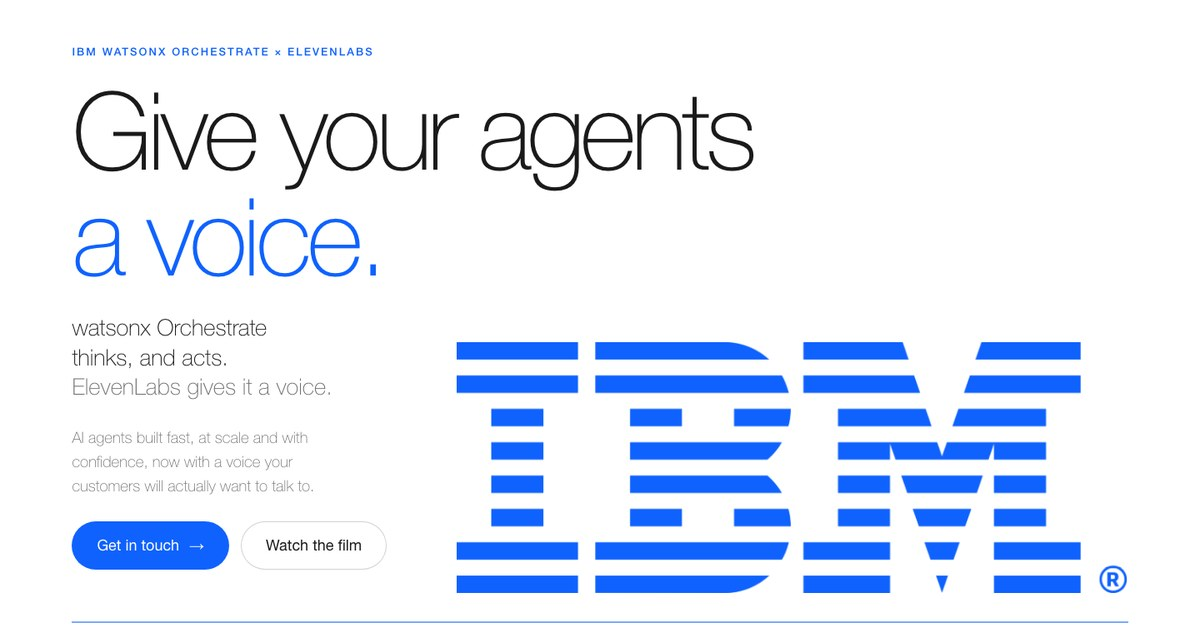
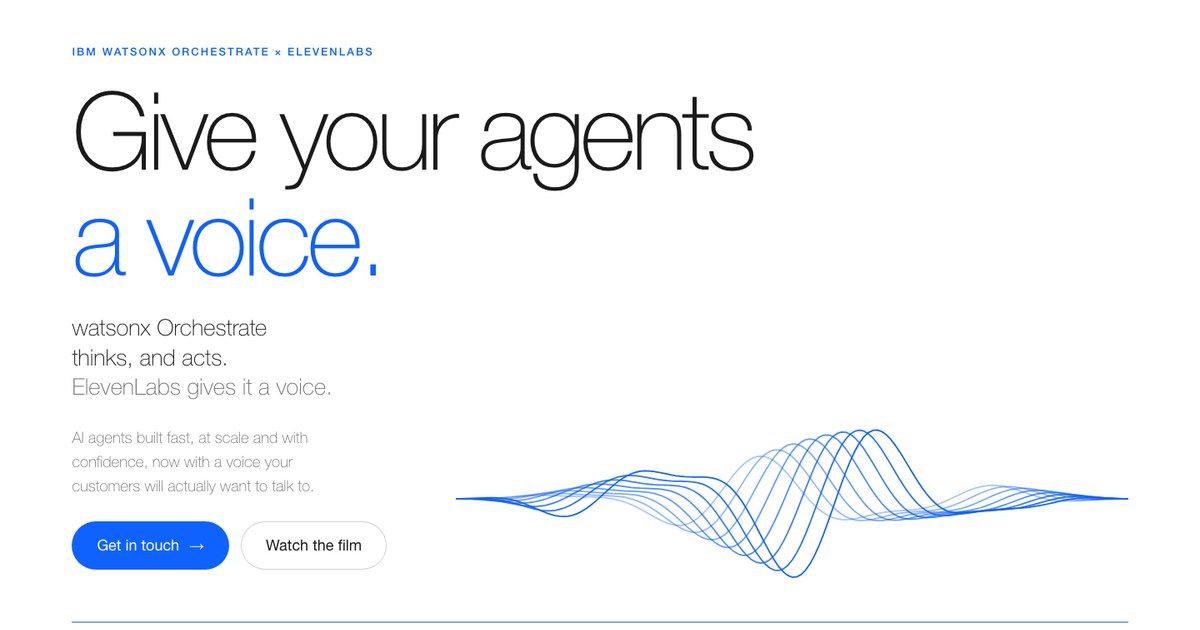
Hero: the voice alone, speaking in a loop

Changed region(s): [[0.37, 0.5429, 0.9558, 0.9651]]

diff --git a/index.html b/index.html
@@ -72,16 +72,11 @@ section{position:relative}
 .drawing .f{fill:rgba(15,98,254,0);transition:fill 1.2s ease calc(var(--base,0ms) + 3000ms),stroke-dashoffset var(--t) var(--ease2) calc(var(--d) + var(--base,0ms))}
 .drawing.in .f{fill:rgba(15,98,254,.06)}
 .drawing .white{fill:#fff}
-/* the voicemark: a voice wave that settles into the IBM stripes */
-.voicemark{position:relative;width:100%;aspect-ratio:1000/374;margin-bottom:34px}
-.vm-wave{position:absolute;inset:0;width:100%;height:100%;overflow:visible;clip-path:inset(-60% -2% -60% calc(var(--carve,0)*100%))}
-.vm-wave path{fill:none;stroke:var(--blue);stroke-linecap:butt;stroke-linejoin:round;stroke-dasharray:1 1;stroke-dashoffset:1;transition:stroke-dashoffset 1.3s var(--ease2) .55s}
+/* the voice: eight layered lines that speak in a loop */
+.voicemark{position:relative;width:100%;aspect-ratio:1000/340;margin-bottom:10px}
+.vm-wave{position:absolute;inset:0;width:100%;height:100%;overflow:visible}
+.vm-wave path{fill:none;stroke:var(--blue);stroke-width:2.2;stroke-linecap:round;stroke-linejoin:round;stroke-dasharray:1 1;stroke-dashoffset:1;transition:stroke-dashoffset 1.3s var(--ease2) .55s}
 .voicemark.in .vm-wave path{stroke-dashoffset:0}
-.vm-logo{position:absolute;inset:0;clip-path:inset(-10% calc((1 - var(--carve,0))*100%) -10% 0)}
-.vm-band{position:absolute;inset:0;background:var(--blue);-webkit-mask:url(assets/ibm.png) 0 0/100% 100% no-repeat;mask:url(assets/ibm.png) 0 0/100% 100% no-repeat}
-.voicemark.formed .vm-wave{visibility:hidden}
-.voicemark.formed .vm-band{animation:stripe-pass 7s var(--ease2) 1.2s infinite;animation-delay:calc(1.2s + var(--k)*70ms)}
-@keyframes stripe-pass{0%,72%,100%{transform:translateX(0)}82%{transform:translateX(2.2%)}}
 .ground{height:2px;background:rgba(15,98,254,.55);transform-origin:left;transform:scaleX(0);transition:transform 1.4s var(--ease2) .35s}
 .ground.in{transform:none}
 .hero .foot{display:flex;justify-content:space-between;align-items:center;padding:22px 0 30px;font-size:15px;color:var(--mute);font-weight:400}
@@ -287,9 +282,8 @@ footer .partners img{height:14px}
       </div>
     </div>
     <div class="art">
-      <div class="voicemark" id="voicemark" role="img" aria-label="A voice waveform that settles into the IBM logo">
-        <svg class="vm-wave" viewBox="0 0 1000 374" aria-hidden="true"><path pathLength="1"/><path pathLength="1"/><path pathLength="1"/><path pathLength="1"/><path pathLength="1"/><path pathLength="1"/><path pathLength="1"/><path pathLength="1"/></svg>
-        <div class="vm-logo" aria-hidden="true"><i class="vm-band" style="--k:0;clip-path:inset(0.000% 0 89.841% 0)"></i><i class="vm-band" style="--k:1;clip-path:inset(10.159% 0 76.508% 0)"></i><i class="vm-band" style="--k:2;clip-path:inset(23.492% 0 63.175% 0)"></i><i class="vm-band" style="--k:3;clip-path:inset(36.825% 0 50.159% 0)"></i><i class="vm-band" style="--k:4;clip-path:inset(49.841% 0 36.825% 0)"></i><i class="vm-band" style="--k:5;clip-path:inset(63.175% 0 23.492% 0)"></i><i class="vm-band" style="--k:6;clip-path:inset(76.508% 0 10.159% 0)"></i><i class="vm-band" style="--k:7;clip-path:inset(89.841% 0 0.000% 0)"></i></div>
+      <div class="voicemark" id="voicemark" role="img" aria-label="A voice waveform, speaking">
+        <svg class="vm-wave" viewBox="0 0 1000 340" aria-hidden="true"><path pathLength="1"/><path pathLength="1"/><path pathLength="1"/><path pathLength="1"/><path pathLength="1"/><path pathLength="1"/><path pathLength="1"/><path pathLength="1"/></svg>
       </div>
     </div>
   </div>
@@ -680,46 +674,42 @@ footer .partners img{height:14px}
   }), { threshold: 0.2, rootMargin: '0px 0px -6% 0px' });
   document.querySelectorAll('.rv, .words, .draw, .ground, #mapwrap, .verb, .fig, .seventy, #actions').forEach((t) => io.observe(t));
 
-  // the voicemark: speak, settle into eight lines, thicken into the stripes, carve the letters
+  // the voice: eight layered lines speaking in a loop, with phrases and small breaths; pauses when off-screen
   const vm = document.getElementById('voicemark');
   if (vm) {
     const paths = [...vm.querySelectorAll('.vm-wave path')];
-    const K = 1000 / 843;
-    const ROW = [0, 42, 84, 126, 167, 209, 251, 293].map((y) => (y + 11) * K);
-    const TH = 22 * K;
     const N = 150;
-    const clamp01 = (x) => Math.max(0, Math.min(1, x));
-    const ease = (x) => (x < 0.5 ? 4 * x * x * x : 1 - Math.pow(-2 * x + 2, 3) / 2);
+    const smooth = (x) => x * x * (3 - 2 * x);
     const draw = (t) => {
-      const split = ease(clamp01((t - 3.7) / 1.3));
-      const amp = 1 - ease(clamp01((t - 3.4) / 1.1));
-      const loud = 0.6 + 0.4 * Math.sin(t * 2.3) * Math.sin(t * 0.85 + 1.2);
+      // phrasing: a slow carrier gives phrases and pauses, a faster one gives syllable-like swells
+      const phrase = smooth(Math.max(0, Math.min(1, 0.5 + 0.9 * Math.sin(t * 1.15))));
+      const loud = 0.1 + 0.9 * phrase * (0.72 + 0.28 * Math.sin(t * 3.1 + 1));
       paths.forEach((p, k) => {
+        const spread = 1 - k * 0.07;
         let d = '';
         for (let i = 0; i <= N; i++) {
           const u = i / N;
           const env = Math.pow(Math.sin(Math.PI * u), 2);
-          const w = (Math.sin(u * Math.PI * 2 * 3 + t * 4.6 + k * 0.5) + 0.45 * Math.sin(u * Math.PI * 2 * 5.2 - t * 3.3 + k * 0.8)) * 96 * (1 - k * 0.07) * env * amp * loud;
-          d += (i ? 'L' : 'M') + (u * 1000).toFixed(1) + ' ' + (187 + w * (1 - split) + (ROW[k] - 187) * split).toFixed(1);
+          const w = (Math.sin(u * Math.PI * 2 * 3 + t * 4.6 + k * 0.5) + 0.45 * Math.sin(u * Math.PI * 2 * 5.2 - t * 3.3 + k * 0.8)) * 100 * spread * env * loud;
+          d += (i ? 'L' : 'M') + (u * 1000).toFixed(1) + ' ' + (170 + w).toFixed(1);
         }
         p.setAttribute('d', d);
-        p.style.strokeWidth = (2.2 + (TH - 2.2) * split * split).toFixed(2);
-        p.style.strokeOpacity = (0.5 + 0.5 * split).toFixed(2);
+        p.style.strokeOpacity = (1 - k * 0.09).toFixed(2);
       });
-      const carve = ease(clamp01((t - 5.1) / 0.75));
-      vm.style.setProperty('--carve', carve.toFixed(3));
-      return carve >= 1;
     };
-    if (matchMedia('(prefers-reduced-motion: reduce)').matches) { draw(99); vm.classList.add('in', 'formed'); }
-    else {
-      draw(0);
-      let t0 = null;
-      const tick = (now) => {
-        if (t0 === null) t0 = now;
-        if (draw((now - t0) / 1000 - 0.55)) vm.classList.add('formed'); else requestAnimationFrame(tick);
-      };
-      requestAnimationFrame(() => { vm.classList.add('in'); requestAnimationFrame(tick); });
+    draw(1.2);
+    if (!matchMedia('(prefers-reduced-motion: reduce)').matches) {
+      let on = true; let t0 = null; let offset = 1.2;
+      new IntersectionObserver(([e]) => { on = e.isIntersecting; if (on) { t0 = null; requestAnimationFrame(tick); } }).observe(vm);
+      function tick(now) {
+        if (!on) return;
+        if (t0 === null) t0 = now - offset * 1000;
+        offset = (now - t0) / 1000;
+        draw(offset);
+        requestAnimationFrame(tick);
+      }
     }
+    requestAnimationFrame(() => vm.classList.add('in'));
   }
 
   // the hero performs immediately

diff --git a/tools/template.html b/tools/template.html
@@ -72,16 +72,11 @@ section{position:relative}
 .drawing .f{fill:rgba(15,98,254,0);transition:fill 1.2s ease calc(var(--base,0ms) + 3000ms),stroke-dashoffset var(--t) var(--ease2) calc(var(--d) + var(--base,0ms))}
 .drawing.in .f{fill:rgba(15,98,254,.06)}
 .drawing .white{fill:#fff}
-/* the voicemark: a voice wave that settles into the IBM stripes */
-.voicemark{position:relative;width:100%;aspect-ratio:1000/374;margin-bottom:34px}
-.vm-wave{position:absolute;inset:0;width:100%;height:100%;overflow:visible;clip-path:inset(-60% -2% -60% calc(var(--carve,0)*100%))}
-.vm-wave path{fill:none;stroke:var(--blue);stroke-linecap:butt;stroke-linejoin:round;stroke-dasharray:1 1;stroke-dashoffset:1;transition:stroke-dashoffset 1.3s var(--ease2) .55s}
+/* the voice: eight layered lines that speak in a loop */
+.voicemark{position:relative;width:100%;aspect-ratio:1000/340;margin-bottom:10px}
+.vm-wave{position:absolute;inset:0;width:100%;height:100%;overflow:visible}
+.vm-wave path{fill:none;stroke:var(--blue);stroke-width:2.2;stroke-linecap:round;stroke-linejoin:round;stroke-dasharray:1 1;stroke-dashoffset:1;transition:stroke-dashoffset 1.3s var(--ease2) .55s}
 .voicemark.in .vm-wave path{stroke-dashoffset:0}
-.vm-logo{position:absolute;inset:0;clip-path:inset(-10% calc((1 - var(--carve,0))*100%) -10% 0)}
-.vm-band{position:absolute;inset:0;background:var(--blue);-webkit-mask:url(assets/ibm.png) 0 0/100% 100% no-repeat;mask:url(assets/ibm.png) 0 0/100% 100% no-repeat}
-.voicemark.formed .vm-wave{visibility:hidden}
-.voicemark.formed .vm-band{animation:stripe-pass 7s var(--ease2) 1.2s infinite;animation-delay:calc(1.2s + var(--k)*70ms)}
-@keyframes stripe-pass{0%,72%,100%{transform:translateX(0)}82%{transform:translateX(2.2%)}}
 .ground{height:2px;background:rgba(15,98,254,.55);transform-origin:left;transform:scaleX(0);transition:transform 1.4s var(--ease2) .35s}
 .ground.in{transform:none}
 .hero .foot{display:flex;justify-content:space-between;align-items:center;padding:22px 0 30px;font-size:15px;color:var(--mute);font-weight:400}
@@ -287,9 +282,8 @@ footer .partners img{height:14px}
       </div>
     </div>
     <div class="art">
-      <div class="voicemark" id="voicemark" role="img" aria-label="A voice waveform that settles into the IBM logo">
-        <svg class="vm-wave" viewBox="0 0 1000 374" aria-hidden="true"><path pathLength="1"/><path pathLength="1"/><path pathLength="1"/><path pathLength="1"/><path pathLength="1"/><path pathLength="1"/><path pathLength="1"/><path pathLength="1"/></svg>
-        <div class="vm-logo" aria-hidden="true"><i class="vm-band" style="--k:0;clip-path:inset(0.000% 0 89.841% 0)"></i><i class="vm-band" style="--k:1;clip-path:inset(10.159% 0 76.508% 0)"></i><i class="vm-band" style="--k:2;clip-path:inset(23.492% 0 63.175% 0)"></i><i class="vm-band" style="--k:3;clip-path:inset(36.825% 0 50.159% 0)"></i><i class="vm-band" style="--k:4;clip-path:inset(49.841% 0 36.825% 0)"></i><i class="vm-band" style="--k:5;clip-path:inset(63.175% 0 23.492% 0)"></i><i class="vm-band" style="--k:6;clip-path:inset(76.508% 0 10.159% 0)"></i><i class="vm-band" style="--k:7;clip-path:inset(89.841% 0 0.000% 0)"></i></div>
+      <div class="voicemark" id="voicemark" role="img" aria-label="A voice waveform, speaking">
+        <svg class="vm-wave" viewBox="0 0 1000 340" aria-hidden="true"><path pathLength="1"/><path pathLength="1"/><path pathLength="1"/><path pathLength="1"/><path pathLength="1"/><path pathLength="1"/><path pathLength="1"/><path pathLength="1"/></svg>
       </div>
     </div>
   </div>
@@ -529,46 +523,42 @@ footer .partners img{height:14px}
   }), { threshold: 0.2, rootMargin: '0px 0px -6% 0px' });
   document.querySelectorAll('.rv, .words, .draw, .ground, #mapwrap, .verb, .fig, .seventy, #actions').forEach((t) => io.observe(t));
 
-  // the voicemark: speak, settle into eight lines, thicken into the stripes, carve the letters
+  // the voice: eight layered lines speaking in a loop, with phrases and small breaths; pauses when off-screen
   const vm = document.getElementById('voicemark');
   if (vm) {
     const paths = [...vm.querySelectorAll('.vm-wave path')];
-    const K = 1000 / 843;
-    const ROW = [0, 42, 84, 126, 167, 209, 251, 293].map((y) => (y + 11) * K);
-    const TH = 22 * K;
     const N = 150;
-    const clamp01 = (x) => Math.max(0, Math.min(1, x));
-    const ease = (x) => (x < 0.5 ? 4 * x * x * x : 1 - Math.pow(-2 * x + 2, 3) / 2);
+    const smooth = (x) => x * x * (3 - 2 * x);
     const draw = (t) => {
-      const split = ease(clamp01((t - 3.7) / 1.3));
-      const amp = 1 - ease(clamp01((t - 3.4) / 1.1));
-      const loud = 0.6 + 0.4 * Math.sin(t * 2.3) * Math.sin(t * 0.85 + 1.2);
+      // phrasing: a slow carrier gives phrases and pauses, a faster one gives syllable-like swells
+      const phrase = smooth(Math.max(0, Math.min(1, 0.5 + 0.9 * Math.sin(t * 1.15))));
+      const loud = 0.1 + 0.9 * phrase * (0.72 + 0.28 * Math.sin(t * 3.1 + 1));
       paths.forEach((p, k) => {
+        const spread = 1 - k * 0.07;
         let d = '';
         for (let i = 0; i <= N; i++) {
           const u = i / N;
           const env = Math.pow(Math.sin(Math.PI * u), 2);
-          const w = (Math.sin(u * Math.PI * 2 * 3 + t * 4.6 + k * 0.5) + 0.45 * Math.sin(u * Math.PI * 2 * 5.2 - t * 3.3 + k * 0.8)) * 96 * (1 - k * 0.07) * env * amp * loud;
-          d += (i ? 'L' : 'M') + (u * 1000).toFixed(1) + ' ' + (187 + w * (1 - split) + (ROW[k] - 187) * split).toFixed(1);
+          const w = (Math.sin(u * Math.PI * 2 * 3 + t * 4.6 + k * 0.5) + 0.45 * Math.sin(u * Math.PI * 2 * 5.2 - t * 3.3 + k * 0.8)) * 100 * spread * env * loud;
+          d += (i ? 'L' : 'M') + (u * 1000).toFixed(1) + ' ' + (170 + w).toFixed(1);
         }
         p.setAttribute('d', d);
-        p.style.strokeWidth = (2.2 + (TH - 2.2) * split * split).toFixed(2);
-        p.style.strokeOpacity = (0.5 + 0.5 * split).toFixed(2);
+        p.style.strokeOpacity = (1 - k * 0.09).toFixed(2);
       });
-      const carve = ease(clamp01((t - 5.1) / 0.75));
-      vm.style.setProperty('--carve', carve.toFixed(3));
-      return carve >= 1;
     };
-    if (matchMedia('(prefers-reduced-motion: reduce)').matches) { draw(99); vm.classList.add('in', 'formed'); }
-    else {
-      draw(0);
-      let t0 = null;
-      const tick = (now) => {
-        if (t0 === null) t0 = now;
-        if (draw((now - t0) / 1000 - 0.55)) vm.classList.add('formed'); else requestAnimationFrame(tick);
-      };
-      requestAnimationFrame(() => { vm.classList.add('in'); requestAnimationFrame(tick); });
+    draw(1.2);
+    if (!matchMedia('(prefers-reduced-motion: reduce)').matches) {
+      let on = true; let t0 = null; let offset = 1.2;
+      new IntersectionObserver(([e]) => { on = e.isIntersecting; if (on) { t0 = null; requestAnimationFrame(tick); } }).observe(vm);
+      function tick(now) {
+        if (!on) return;
+        if (t0 === null) t0 = now - offset * 1000;
+        offset = (now - t0) / 1000;
+        draw(offset);
+        requestAnimationFrame(tick);
+      }
     }
+    requestAnimationFrame(() => vm.classList.add('in'));
   }
 
   // the hero performs immediately

diff --git a/README.md b/README.md
@@ -4,7 +4,7 @@ Poster site for the voice-agents film, in the same design system as the film.
 
 - `index.html` is the built page. GitHub Pages serves it as-is (`.nojekyll`).
 - `assets/` holds the film (`voice-agents-film.mp4`, v5), its poster, the link-preview image, logos and the favicon.
-- `tools/template.html` is the source. Its hero is a voice waveform that settles into the IBM stripes (SVG plus a small script in the page). `tools/build.mjs` inlines two things:
+- `tools/template.html` is the source. Its hero is a voice waveform that speaks in a loop (SVG plus a small script in the page). `tools/build.mjs` inlines two things:
   - the world map with its greeting pins (`tools/world.json`, from `tools/geo-outline.mjs`);
   - the "Get in touch" link (`tools/config.json` → `cta`).
 
